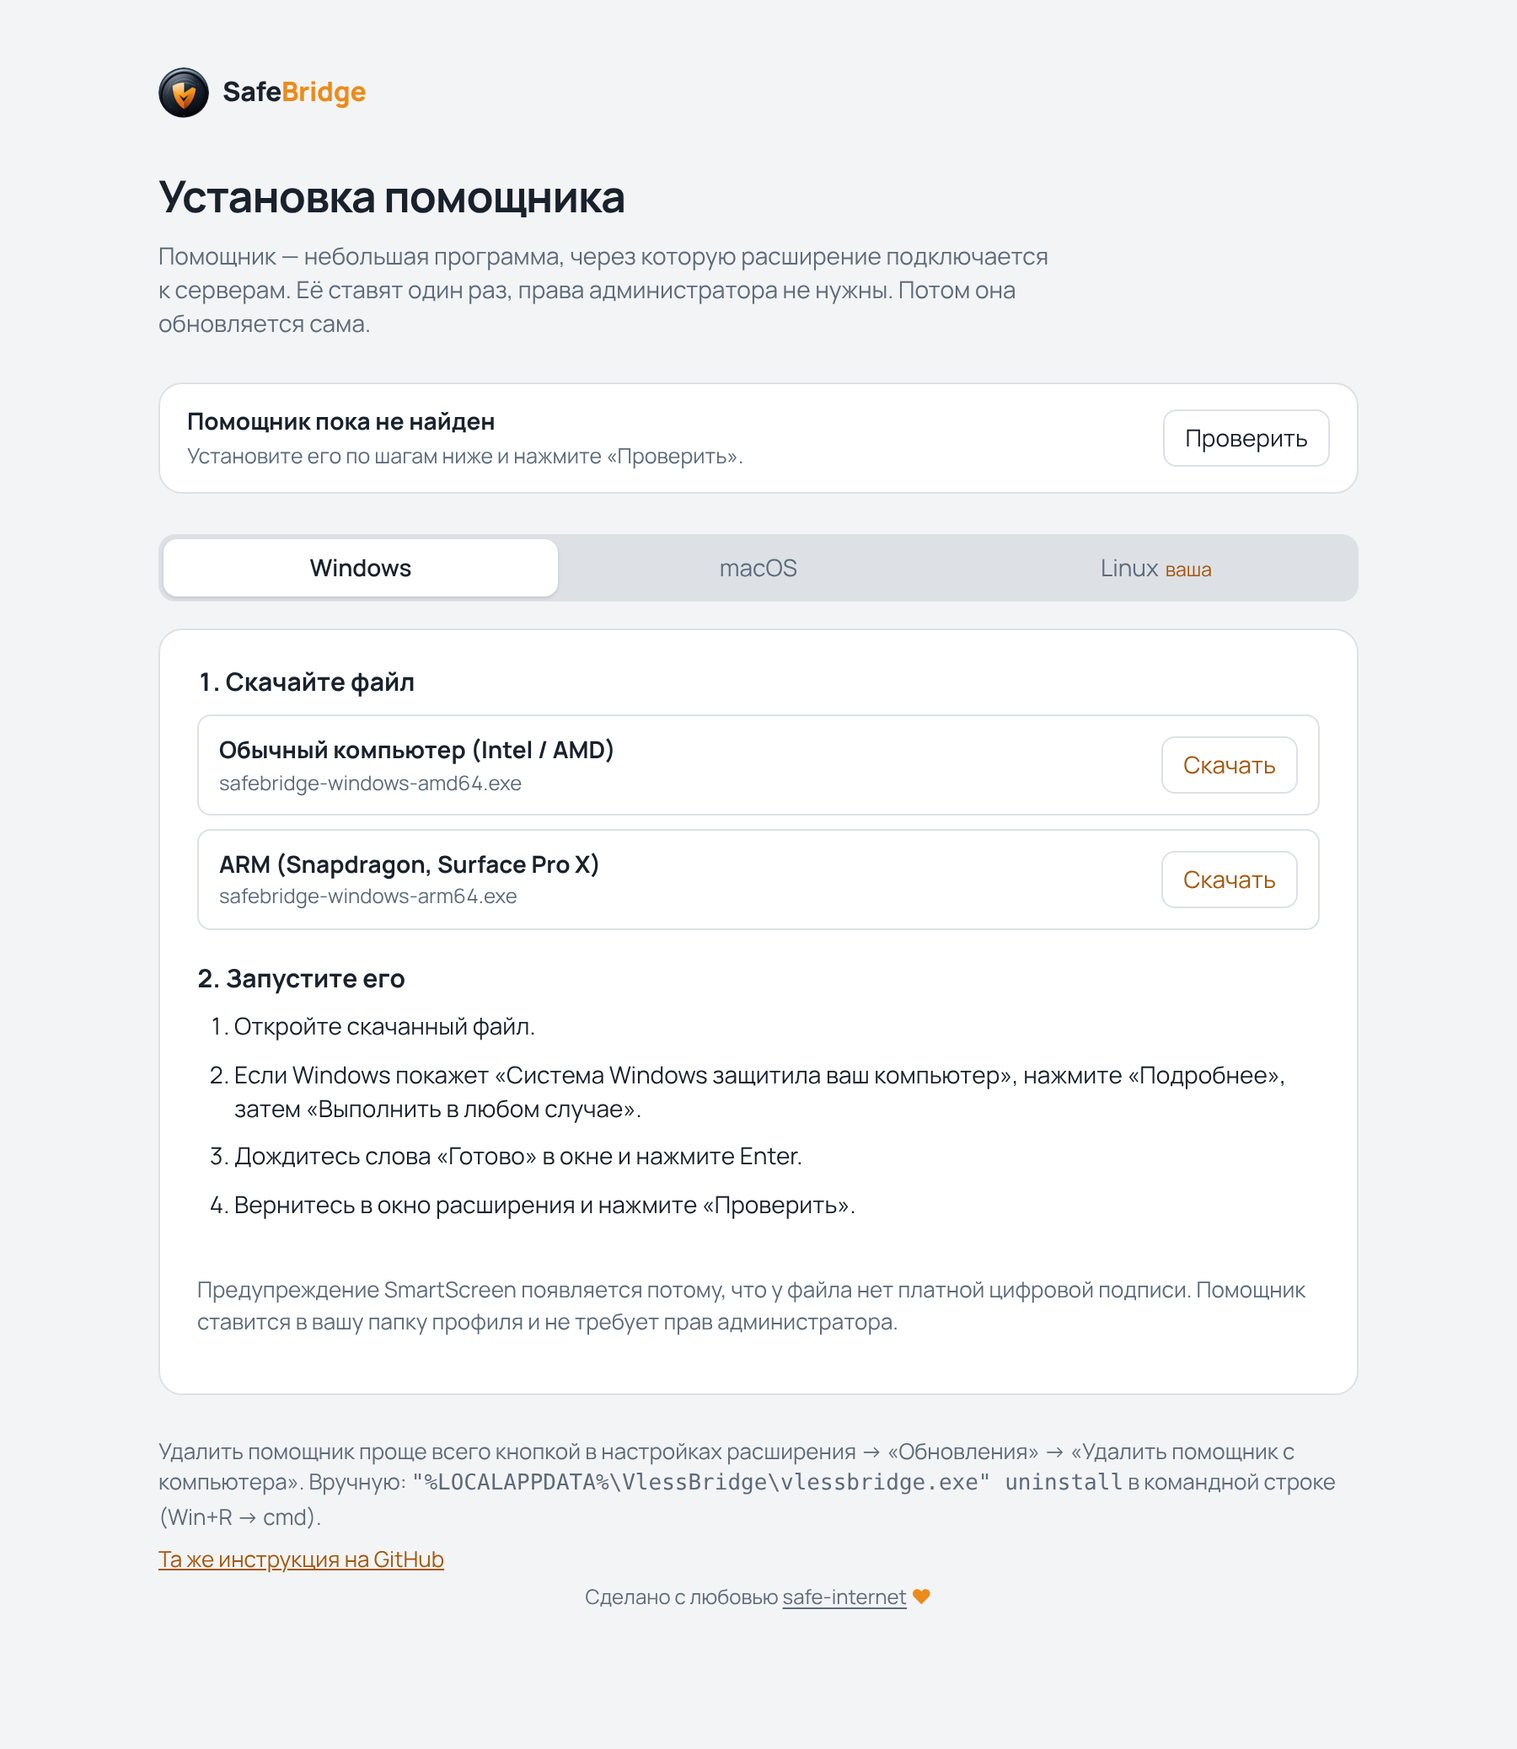
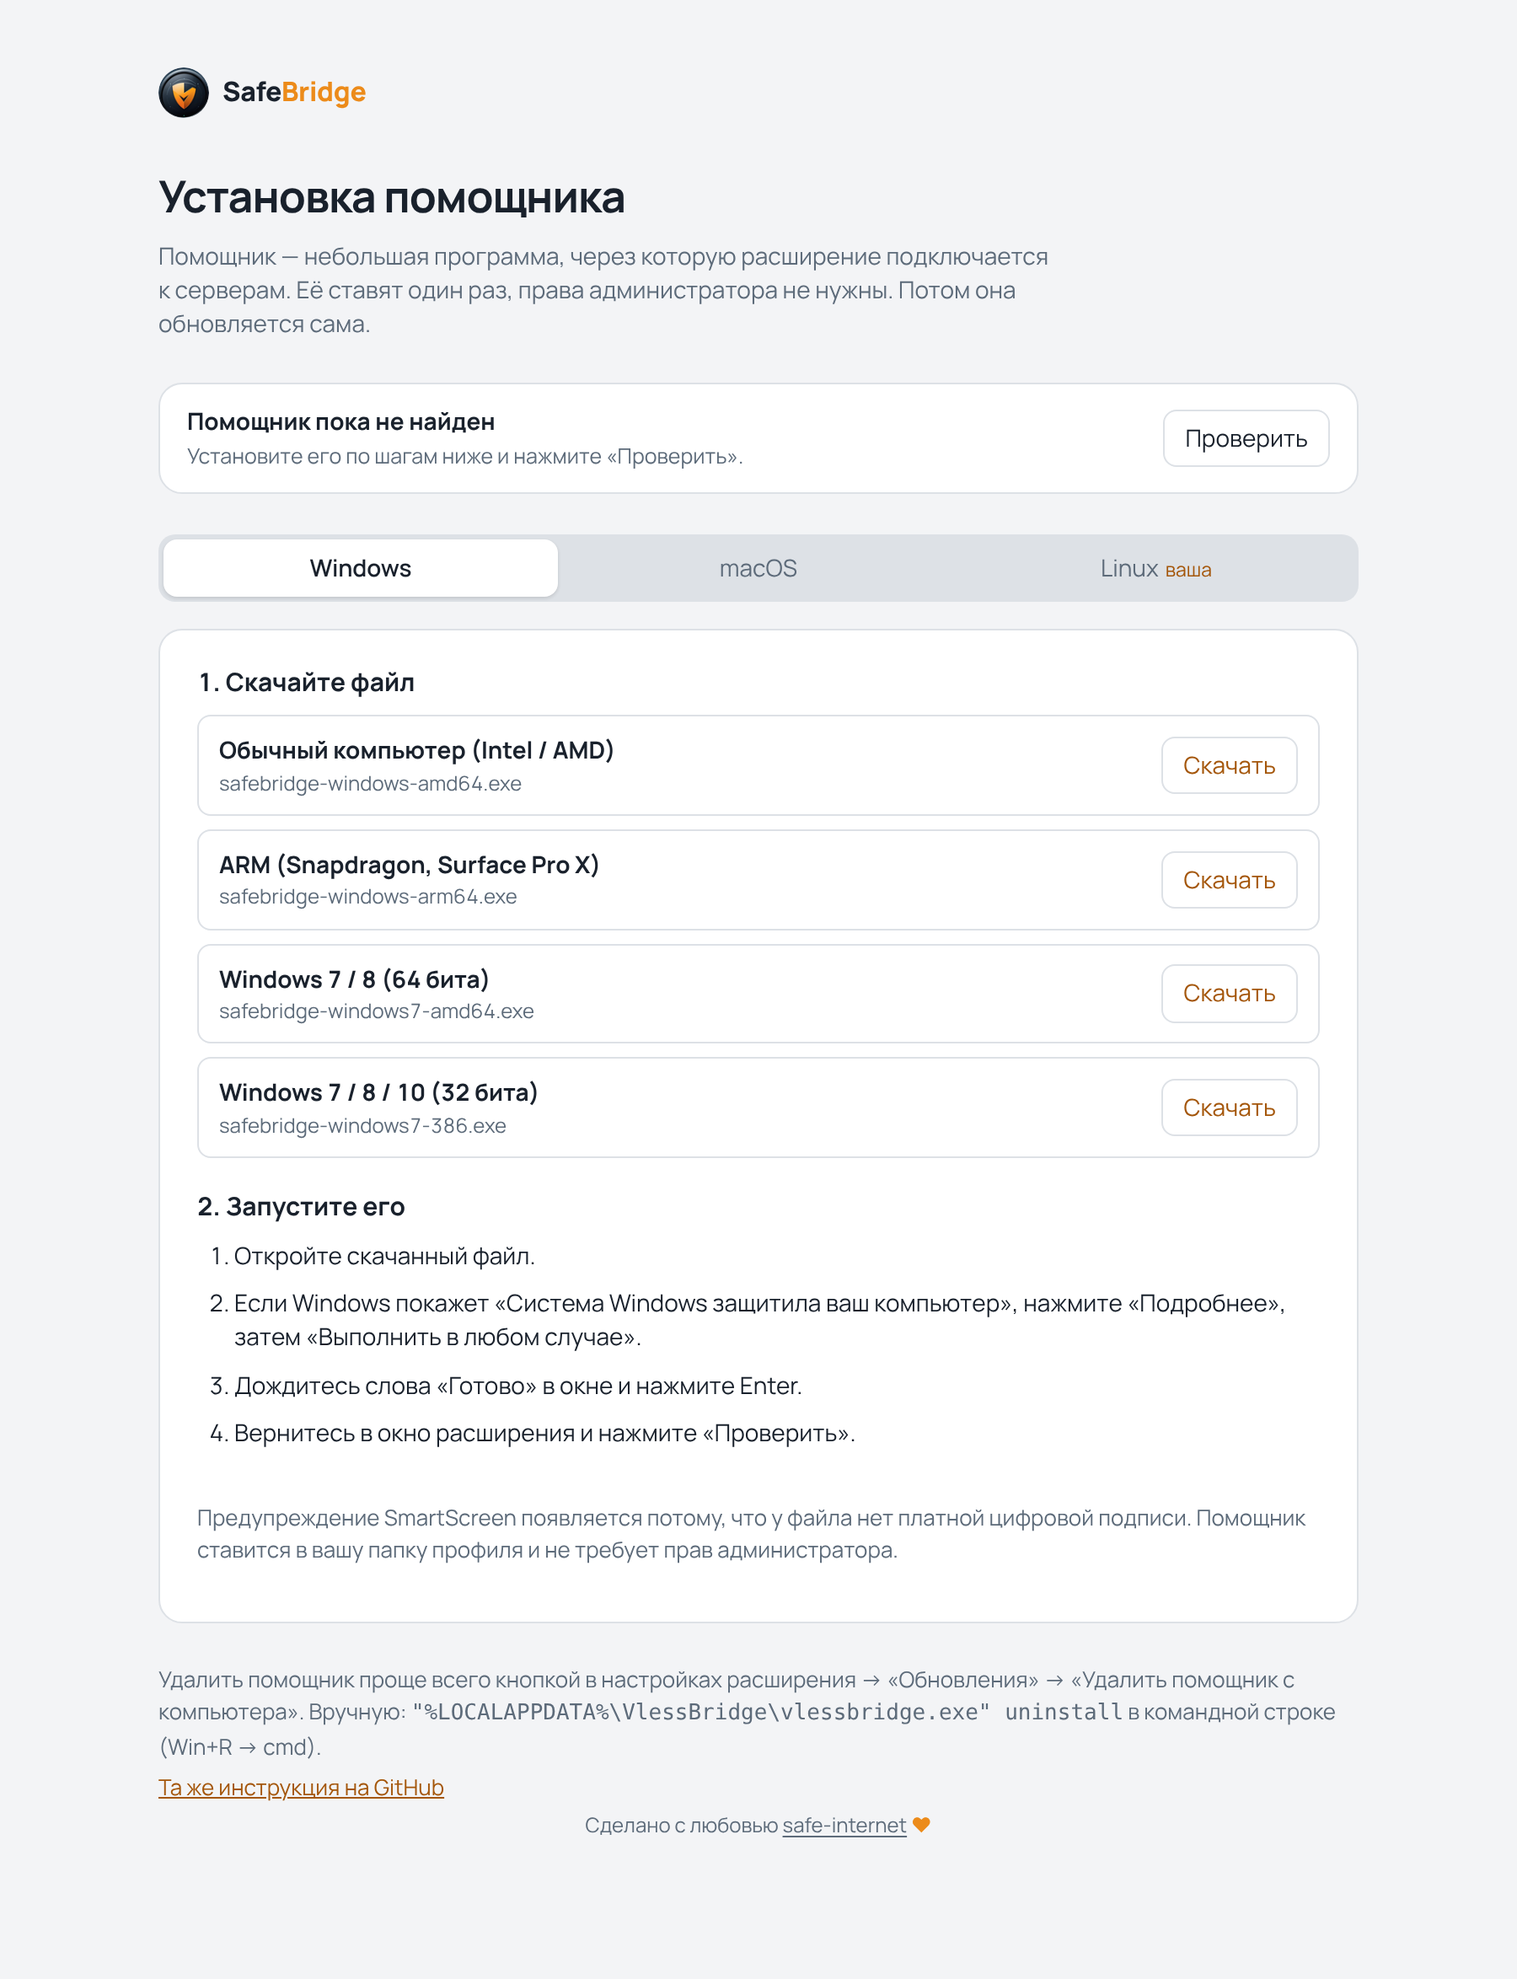
Windows 7/8 и 32-битная Windows: отдельная сборка помощника
- помощник для Windows 7 собирается пропатченным Go от XTLS (go-win7 1.26.7,
  SHA-256 проверяется) со встроенным ядром Xray-win7: 64 и 32 бита
- такая сборка обновляется только на свою (windows7-amd64 / windows7-386)
  и при обновлении ядра берёт Xray-win7-*
- расширение определяет Windows 7/8 и 32-битную систему и предлагает нужный файл,
  на странице установки — отдельные пункты и шаги для Windows 7
- minimum_chrome_version 105, чтобы работал Chrome 109 на Windows 7
- версия 0.7.0

diff --git a/extension/src/common.js b/extension/src/common.js
@@ -13,7 +13,11 @@ export const DOWNLOAD_BASE = REPO_URL + '/raw/downloads/';
 export const HELPER_FILES = [
   { os: 'windows', name: 'Windows', variants: [
     { arch: 'amd64', label: 'Обычный компьютер (Intel / AMD)', file: 'safebridge-windows-amd64.exe' },
-    { arch: 'arm64', label: 'ARM (Snapdragon, Surface Pro X)', file: 'safebridge-windows-arm64.exe' }] },
+    { arch: 'arm64', label: 'ARM (Snapdragon, Surface Pro X)', file: 'safebridge-windows-arm64.exe' },
+    // Windows 7 и 8: обычный Go их не поддерживает, сборка на пропатченном Go от XTLS с ядром Xray-win7.
+    // 32-битная подходит и для 32-битной Windows 10.
+    { arch: 'win7-amd64', label: 'Windows 7 / 8 (64 бита)', file: 'safebridge-windows7-amd64.exe' },
+    { arch: 'win7-386', label: 'Windows 7 / 8 / 10 (32 бита)', file: 'safebridge-windows7-386.exe' }] },
   { os: 'darwin', name: 'macOS', variants: [
     { arch: 'arm64', label: 'Apple Silicon (M1–M4)', file: 'safebridge-macos-arm64.zip' },
     { arch: 'amd64', label: 'Intel', file: 'safebridge-macos-amd64.zip' }] },
@@ -89,7 +93,12 @@ export const INSTALL_CMD = `curl -fsSL ${DOWNLOAD_BASE}install.sh | sh`;
 // Шаги установки для каждой системы.
 export function installSteps(os, file) {
   return {
-    windows: [
+    windows: /windows7/.test(file || '') ? [
+      'Откройте скачанный файл.',
+      'Если появится «Не удаётся проверить издателя» или «Система Windows защитила ваш компьютер», нажмите «Запустить» (или «Подробнее» → «Выполнить в любом случае»).',
+      'Дождитесь слова «Готово» в окне и нажмите Enter.',
+      'Вернитесь в окно расширения и нажмите «Проверить».',
+    ] : [
       'Откройте скачанный файл.',
       'Если Windows покажет «Система Windows защитила ваш компьютер», нажмите «Подробнее», затем «Выполнить в любом случае».',
       'Дождитесь слова «Готово» в окне и нажмите Enter.',
@@ -109,10 +118,26 @@ export function installSteps(os, file) {
   }[os] || [];
 }
 
+// Windows 7 или 8? Chromium сообщает версию платформы в userAgentData: у Windows 10 и 11
+// она 10.0.0 и больше, у Windows 7 — 0.1.0, у 8 и 8.1 — 0.2.0 и 0.3.0. Firefox пишет её в userAgent.
+export async function detectOldWindows() {
+  try {
+    const uad = navigator.userAgentData;
+    if (uad?.getHighEntropyValues) {
+      const { platform, platformVersion } = await uad.getHighEntropyValues(['platformVersion']);
+      if (platform === 'Windows' && platformVersion) return parseInt(platformVersion, 10) < 1;
+    }
+  } catch {}
+  return /Windows NT 6\.[0-3]\b/.test(navigator.userAgent);
+}
+
 // Файл помощника для платформы браузера (ext.runtime.getPlatformInfo).
-export function helperDownload(p) {
-  const arch = p.arch === 'arm64' || p.arch === 'arm' ? 'arm64' : 'amd64';
+// oldWindows — Windows 7 или 8 (см. detectOldWindows): для них отдельная сборка помощника.
+export function helperDownload(p, oldWindows = false) {
+  let arch = p.arch === 'arm64' || p.arch === 'arm' ? 'arm64' : 'amd64';
   const os = { win: 'windows', mac: 'darwin', linux: 'linux' }[p.os];
+  if (os === 'windows' && p.arch === 'x86-32') arch = 'win7-386'; // 32-битный браузер или система
+  else if (os === 'windows' && oldWindows) arch = arch === 'arm64' ? 'arm64' : 'win7-amd64';
   const group = HELPER_FILES.find((g) => g.os === os);
   if (!group) return null;
   const v = group.variants.find((x) => x.arch === arch) || group.variants[0];

diff --git a/extension/src/popup.js b/extension/src/popup.js
@@ -1,5 +1,5 @@
 import { ext, isFirefox } from './compat.js';
-import { el, send, allServers, protoLabel, fmtBytes, fmtAgo, fmtDate, domainMatches, siteDomain, plural, helperDownload, installSteps, madeBy, MIN_HELPER, versionLess, MODES, LIST_NAMES, presetFor, relatedDomains, ACCOUNT, ACCOUNT_ERRORS, expiringSubs, fmtLeft, subExpire } from './common.js';
+import { el, send, allServers, protoLabel, fmtBytes, fmtAgo, fmtDate, domainMatches, siteDomain, plural, helperDownload, detectOldWindows, installSteps, madeBy, MIN_HELPER, versionLess, MODES, LIST_NAMES, presetFor, relatedDomains, ACCOUNT, ACCOUNT_ERRORS, expiringSubs, fmtLeft, subExpire } from './common.js';
 
 const app = document.getElementById('app');
 let state = null;
@@ -54,10 +54,10 @@ function viewMissingHost() {
     el('h1', { text: 'Установите помощник' }),
     el('p', { text: 'Расширение подключается к серверам через небольшую программу на компьютере. Её нужно установить один раз, права администратора не понадобятся.' }),
   );
-  ext.runtime.getPlatformInfo().then((p) => {
-    const d = helperDownload(p);
+  Promise.all([ext.runtime.getPlatformInfo(), detectOldWindows()]).then(([p, oldWin]) => {
+    const d = helperDownload(p, oldWin);
     const row = el('div', { class: 'row' });
-    if (d) row.append(el('a', { class: 'btn primary', href: d.url, download: d.file, text: `Скачать для ${d.name}` }));
+    if (d) row.append(el('a', { class: 'btn primary', href: d.url, download: d.file, text: `Скачать для ${d.arch.startsWith('win7') ? (d.arch === 'win7-386' ? 'Windows (32 бита)' : 'Windows 7') : d.name}` }));
     row.append(el('button', { class: 'btn', onclick: () => openPage('install.html'), text: d ? 'Другие системы' : 'Выбрать систему' }));
     box.append(row);
     if (d) box.append(el('ol', { class: 'small' }, installSteps(d.os, d.file).map((t) => el('li', { text: t }))));

diff --git a/extension/src/install.js b/extension/src/install.js
@@ -1,6 +1,6 @@
 import { ext, isFirefox } from './compat.js';
 import { MIN_HELPER, versionLess } from './common.js';
-import { el, send, HELPER_FILES, DOWNLOAD_BASE, INSTALL_CMD, installSteps, helperDownload, INSTALL_DOC, madeBy } from './common.js';
+import { el, send, HELPER_FILES, DOWNLOAD_BASE, INSTALL_CMD, installSteps, helperDownload, detectOldWindows, INSTALL_DOC, madeBy } from './common.js';
 
 const app = document.getElementById('app');
 const statusBox = document.getElementById('status');
@@ -86,7 +86,7 @@ function render() {
 
 (async () => {
   const p = await ext.runtime.getPlatformInfo();
-  const d = helperDownload(p);
+  const d = helperDownload(p, await detectOldWindows());
   if (d) { mine = { os: d.os, arch: d.arch }; tab = d.os; }
   const hash = location.hash.slice(1);
   if (HELPER_FILES.some((g) => g.os === hash)) tab = hash;

diff --git a/host/update.go b/host/update.go
@@ -151,7 +151,14 @@ type UpdateInfo struct {
 	} `json:"core"`
 }
 
-func platformKey() string { return runtime.GOOS + "-" + runtime.GOARCH }
+// platformKey — ключ файла помощника в latest.json: windows-amd64, linux-arm64…
+// Сборка для Windows 7 обновляется только на свою: windows7-amd64, windows7-386.
+func platformKey() string {
+	if isWin7Build() {
+		return "windows7-" + runtime.GOARCH
+	}
+	return runtime.GOOS + "-" + runtime.GOARCH
+}
 
 // fetchLatestHelper загружает latest.json и проверяет его подпись ed25519. Без верной
 // подписи хешам из файла не доверяем: иначе тот, кто подменит файлы в ветке downloads
@@ -271,7 +278,10 @@ func CheckUpdates(ctx context.Context, proxyPort int) *UpdateInfo {
 
 func xrayAssetName() (string, error) {
 	osName := map[string]string{"windows": "windows", "darwin": "macos", "linux": "linux"}[runtime.GOOS]
-	arch := map[string]string{"amd64": "64", "arm64": "arm64-v8a"}[runtime.GOARCH]
+	arch := map[string]string{"amd64": "64", "arm64": "arm64-v8a", "386": "32"}[runtime.GOARCH]
+	if isWin7Build() {
+		osName = "win7" // Xray-win7-64.zip / Xray-win7-32.zip: обычные сборки на Windows 7 не запускаются
+	}
 	if osName == "" || arch == "" {
 		return "", errors.New("для этой платформы обновление ядра не поддерживается")
 	}

diff --git a/host/paths.go b/host/paths.go
@@ -17,7 +17,12 @@ var (
 	extensionIDs = "mpmmjdhamocialllnfmcpkjealmekhpl"
 	// ID расширения в Firefox (browser_specific_settings.gecko.id)
 	firefoxIDs = "vlessbridge@safebridge"
+	// "win7" — сборка для Windows 7 (пропатченный Go от XTLS и ядро Xray-win7).
+	// Такой помощник обновляется только на сборку для Windows 7 и берёт ядро Xray-win7-*.
+	variant = ""
 )
+
+func isWin7Build() bool { return variant == "win7" }
 
 func homeDir() string {
 	h, err := os.UserHomeDir()

diff --git a/host/host.go b/host/host.go
@@ -150,7 +150,7 @@ func (h *Host) dispatch(req request) (any, error) {
 	case "hello":
 		_, coreErr := CorePath()
 		r := map[string]any{"version": version, "core": CoreVersion(), "bundledCore": bundledXray, "os": runtime.GOOS, "arch": runtime.GOARCH,
-			"status": h.core.Status()}
+			"variant": variant, "status": h.core.Status()}
 		if coreErr != nil {
 			r["coreError"] = coreErr.Error()
 		}

diff --git a/README.md b/README.md
@@ -1,6 +1,6 @@
 # SafeBridge
 
-VPN для браузера по протоколу VLESS. Вы вставляете ссылку-подписку от своего VPN-сервиса, выбираете сервер и решаете, какие сайты открывать через VPN, а какие напрямую. Работает в Firefox, Chrome, Edge, Brave, Яндекс Браузере, Vivaldi и Chromium на Windows, macOS и Linux.
+VPN для браузера по протоколу VLESS. Вы вставляете ссылку-подписку от своего VPN-сервиса, выбираете сервер и решаете, какие сайты открывать через VPN, а какие напрямую. Работает в Firefox, Chrome, Edge, Brave, Яндекс Браузере, Vivaldi и Chromium на Windows (включая Windows 7), macOS и Linux.
 
 Через VPN идёт только браузер — остальные программы на компьютере работают как обычно.
 
@@ -79,6 +79,8 @@ Firefox из Flatpak помощника не видит: песочница Flat
 |---|---|---|
 | Windows | Intel / AMD | [safebridge-windows-amd64.exe](https://github.com/maxhoney920/SafeBridge/raw/downloads/safebridge-windows-amd64.exe) |
 | Windows | ARM (Snapdragon) | [safebridge-windows-arm64.exe](https://github.com/maxhoney920/SafeBridge/raw/downloads/safebridge-windows-arm64.exe) |
+| Windows 7 / 8 | 64 бита | [safebridge-windows7-amd64.exe](https://github.com/maxhoney920/SafeBridge/raw/downloads/safebridge-windows7-amd64.exe) |
+| Windows 7 / 8 / 10 | 32 бита | [safebridge-windows7-386.exe](https://github.com/maxhoney920/SafeBridge/raw/downloads/safebridge-windows7-386.exe) |
 | macOS | Apple Silicon (M1–M4) | [safebridge-macos-arm64.zip](https://github.com/maxhoney920/SafeBridge/raw/downloads/safebridge-macos-arm64.zip) |
 | macOS | Intel | [safebridge-macos-amd64.zip](https://github.com/maxhoney920/SafeBridge/raw/downloads/safebridge-macos-amd64.zip) |
 | Linux | x86-64 | [safebridge-linux-amd64](https://github.com/maxhoney920/SafeBridge/raw/downloads/safebridge-linux-amd64) |
@@ -90,6 +92,12 @@ Firefox из Flatpak помощника не видит: песочница Flat
 2. Если появится «Система Windows защитила ваш компьютер», нажмите «Подробнее», затем «Выполнить в любом случае». Предупреждение появляется потому, что у файла нет платной цифровой подписи.
 3. В окне появится отчёт об установке и слово «Готово». Нажмите Enter.
 4. Вернитесь в окно расширения и нажмите «Проверить».
+
+#### Windows 7 и 8, 32-битная Windows
+
+Обычный помощник на Windows 7 и 8 не запустится, для них есть отдельная сборка: `safebridge-windows7-amd64.exe` (64 бита) или `safebridge-windows7-386.exe` (32 бита, подходит и для 32-битной Windows 10). Расширение само предложит нужный файл. Ставится так же, как на Windows 10, и обновляется только на сборку для Windows 7.
+
+Браузеры для Windows 7: Chrome или Edge 109, Firefox 115 ESR, Яндекс Браузер, Supermium. Учтите, что Windows 7 и эти версии браузеров больше не получают обновлений безопасности.
 
 #### macOS
 
